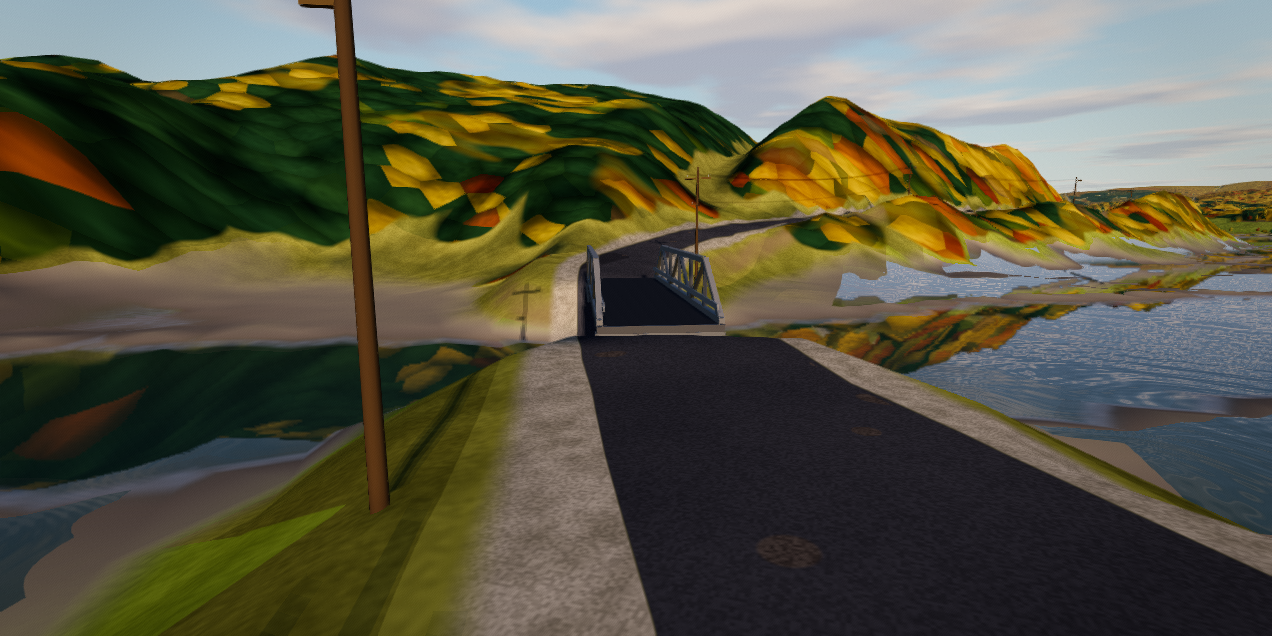
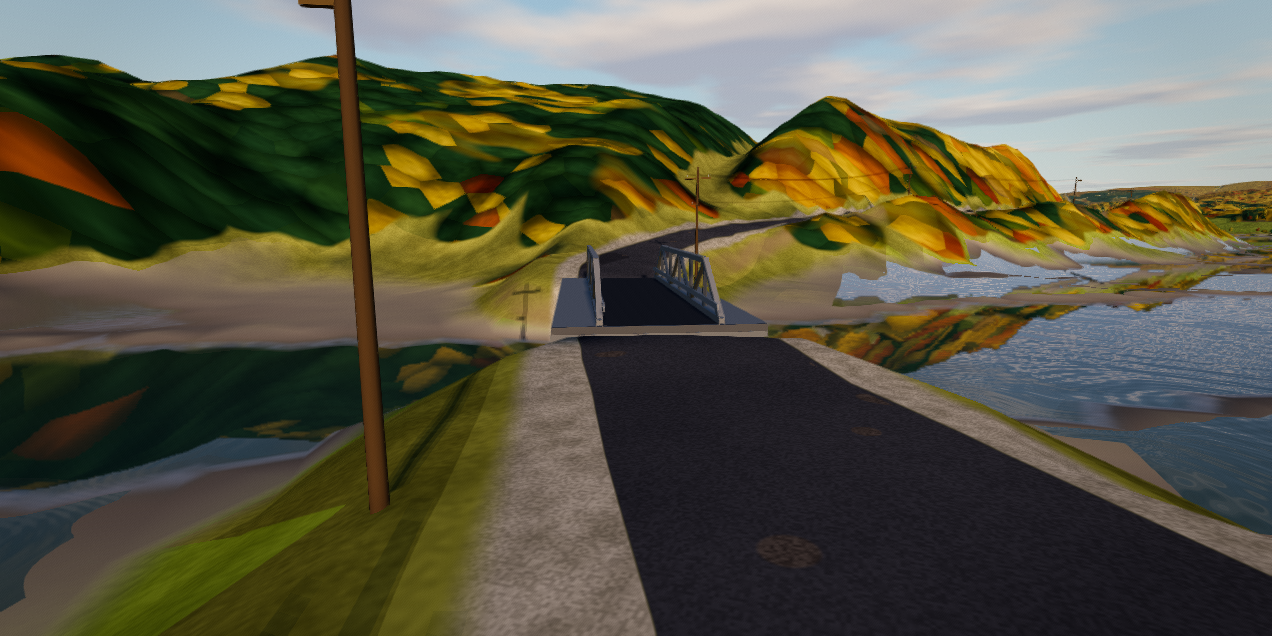
Keep deck shoulders visible and clip portal rail height along inclined ends

diff --git a/web/src/november-bridges.ts b/web/src/november-bridges.ts
@@ -35,7 +35,7 @@ export const PONY_TRUSS = {
   deckThickness: 0.26,
 } as const;
 
-/** Span geometry and side-rail colliders for one pony-truss bridge, including truss height for vertical overlap checks. */
+/** Span geometry and side-rail colliders for one pony-truss bridge, including panel/truss dimensions for vertical clipping. */
 export interface PonyTrussSpan {
   readonly roadId: number;
   readonly ax: number;
@@ -43,7 +43,9 @@ export interface PonyTrussSpan {
   readonly ux: number;
   readonly uz: number;
   readonly span: number;
+  readonly panel: number;
   readonly height: number;
+  readonly heading: number;
   readonly solids: readonly Solid[];
 }
 
@@ -87,6 +89,7 @@ export function ponyTrussSpan(road: Road): PonyTrussSpan | null {
   if (!span) return null;
   const ux = dx / span, uz = dz / span, heading = Math.atan2(dx, -dz);
   const mx = (a[0] + b[0]) / 2, mz = (a[1] + b[1]) / 2;
+  const panels = Math.max(4, Math.round(span / PONY_TRUSS.targetPanel / 2) * 2);
   const centre = (PONY_TRUSS.railInner + PONY_TRUSS.outerHalf) / 2;
   const halfWidth = (PONY_TRUSS.outerHalf - PONY_TRUSS.railInner) / 2;
   return {
@@ -96,7 +99,9 @@ export function ponyTrussSpan(road: Road): PonyTrussSpan | null {
     ux,
     uz,
     span,
+    panel: span / panels,
     height: ponyTrussHeight(span),
+    heading,
     solids: [-1, 1].map(side => ({
       x: mx - uz * side * centre,
       z: mz + ux * side * centre,
@@ -105,6 +110,74 @@ export function ponyTrussSpan(road: Road): PonyTrussSpan | null {
       heading,
     })),
   };
+}
+
+/**
+ * Compute the longitudinal steel collision interval [sLeft, sRight] for a vehicle vertical slice [carY, carY + carHeight]
+ * against the bridge's inner guard rail, inclined end posts, and horizontal top chord.
+ * Writes [sLeft, sRight, railActive ? 1 : 0] into `out` and returns true when steel overlaps vertically.
+ */
+export function ponyTrussVerticalClip(
+  b: PonyTrussSpan,
+  y0: number,
+  y1: number,
+  carY: number,
+  carHeight: number,
+  out: [number, number, number],
+): boolean {
+  const span = b.span, panel = b.panel, h = b.height;
+  const yBase = PONY_TRUSS.chordSize / 2;
+  const topPad = PONY_TRUSS.chordSize / 2;
+  const topOverhang = PONY_TRUSS.chordSize * 0.35;
+  const railTop = PONY_TRUSS.railHeight + 0.11;
+  const deckSlope = (y1 - y0) / span;
+  const carTop = carY + carHeight;
+  if (carTop < Math.min(y0, y1) - 0.15) return false;
+  if (carY > Math.max(y0, y1) + h + topPad) return false;
+
+  let sLeft = 0, sRight = span;
+  if (deckSlope > 1e-7) {
+    sRight = Math.min(sRight, (carTop - (y0 - 0.15)) / deckSlope);
+    sLeft = Math.max(sLeft, (carY - (y0 + h + topPad)) / deckSlope);
+  } else if (deckSlope < -1e-7) {
+    sLeft = Math.max(sLeft, (carTop - (y0 - 0.15)) / deckSlope);
+    sRight = Math.min(sRight, (carY - (y0 + h + topPad)) / deckSlope);
+  }
+
+  // Follow the inclined end posts when the vehicle bottom clears the inner steel guard rail.
+  if (carY > y0 + railTop) {
+    const rawAng = Math.atan2(deckSlope * panel + h - yBase, panel);
+    const endInset = (PONY_TRUSS.endPostSize / 2) * Math.abs(Math.sin(rawAng)) + 0.02;
+    const run = panel - endInset;
+    const ang = Math.atan2(deckSlope * run + h - yBase, run);
+    const endVertHalf = (PONY_TRUSS.endPostSize / 2) / Math.cos(ang);
+    const startSlope = deckSlope + (h - yBase) / run;
+    let sIncl = endInset + (carY - (y0 + deckSlope * endInset + yBase + endVertHalf)) / startSlope;
+    if (carY >= y0 + deckSlope * (panel - topOverhang) + h - topPad) sIncl = Math.min(sIncl, panel - topOverhang);
+    if (deckSlope > 1e-7) sIncl = Math.min(sIncl, (carY - (y0 + railTop)) / deckSlope);
+    sLeft = Math.max(sLeft, sIncl);
+  }
+  if (carY > y1 + railTop) {
+    const rawAng = Math.atan2(-deckSlope * panel + h - yBase, panel);
+    const endInset = (PONY_TRUSS.endPostSize / 2) * Math.abs(Math.sin(rawAng)) + 0.02;
+    const run = panel - endInset;
+    const ang = Math.atan2(-deckSlope * run + h - yBase, run);
+    const endVertHalf = (PONY_TRUSS.endPostSize / 2) / Math.cos(ang);
+    const endSlope = -deckSlope + (h - yBase) / run;
+    let uIncl = endInset + (carY - (y1 - deckSlope * endInset + yBase + endVertHalf)) / endSlope;
+    if (carY >= y1 - deckSlope * (panel - topOverhang) + h - topPad) uIncl = Math.min(uIncl, panel - topOverhang);
+    if (deckSlope < -1e-7) uIncl = Math.min(uIncl, (carY - (y1 + railTop)) / -deckSlope);
+    sRight = Math.min(sRight, span - uIncl);
+  }
+
+  sLeft = Math.max(0, Math.min(span, sLeft));
+  sRight = Math.max(0, Math.min(span, sRight));
+  if (sRight <= sLeft + 1e-4) return false;
+  const railActive = carY <= Math.max(y0 + deckSlope * sLeft, y0 + deckSlope * sRight) + railTop;
+  out[0] = sLeft;
+  out[1] = sRight;
+  out[2] = railActive ? 1 : 0;
+  return true;
 }
 
 /**
@@ -139,13 +212,14 @@ export function registerRailContacts(
 
 /**
  * Build one merged vertex-coloured geometry for a narrow one-lane grey steel pony-truss bridge along [0, span]
- * at the exact y0 -> y1 deck plane computed by Roads.deck().
+ * at the exact y0 -> y1 deck plane computed by Roads.deck(), keeping the full deck shoulders visible out to `deckHalf`.
  */
 export function buildPonyTrussBridge(
   pts: readonly [number, number][],
   y0: number,
   y1: number,
   len: number,
+  deckHalf: number = PONY_TRUSS.outerHalf,
 ): THREE.BufferGeometry {
   const m = new Mesher();
   const a = pts[0], b = pts[pts.length - 1];
@@ -160,6 +234,7 @@ export function buildPonyTrussBridge(
 
   const half = PONY_TRUSS.half;
   const chord = PONY_TRUSS.chordSize;
+  const outerHalf = Math.max(PONY_TRUSS.outerHalf, deckHalf);
   const panels = Math.max(4, Math.round(span / PONY_TRUSS.targetPanel / 2) * 2);
   const panel = span / panels;
   const h = ponyTrussHeight(span);
@@ -169,7 +244,7 @@ export function buildPonyTrussBridge(
   const deckMidY = (y0 + y1) / 2;
   const deckLen = Math.hypot(span, dy);
 
-  // Asphalt deck top and steel deck slab between the two trusses.
+  // Asphalt roadway between the trusses plus concrete cantilevered outer deck shoulders matching Roads.deck() width.
   const deckThick = PONY_TRUSS.deckThickness;
   const fasciaTop = -0.025;
   const fasciaBottom = fasciaTop - deckThick;
@@ -184,11 +259,23 @@ export function buildPonyTrussBridge(
     [deckLen / 2, 0, -clearHalf],
     [-deckLen / 2, 0, -clearHalf],
   ], DECK_ASPHALT);
-  // Deck slab sides and underside (steel deck fascia under the trusses, 2.5 cm below asphalt to avoid z-fighting).
-  m.box(0, fasciaTop - deckThick / 2, 0, fasciaLen, deckThick, half * 2 + chord, STEEL_DARK, false);
+  if (outerHalf > PONY_TRUSS.outerHalf + 1e-4) {
+    for (const side of [-1, 1]) {
+      const z0 = side > 0 ? PONY_TRUSS.outerHalf : -outerHalf;
+      const z1 = side > 0 ? outerHalf : -PONY_TRUSS.outerHalf;
+      m.quad([
+        [-deckLen / 2, 0, z1],
+        [deckLen / 2, 0, z1],
+        [deckLen / 2, 0, z0],
+        [-deckLen / 2, 0, z0],
+      ], ABUTMENT);
+    }
+  }
+  // Deck slab sides and underside (steel deck fascia across the full visible deck width, 2.5 cm below top to avoid z-fighting).
+  m.box(0, fasciaTop - deckThick / 2, 0, fasciaLen, deckThick, outerHalf * 2, STEEL_DARK, false);
 
   // Transverse floor beams beneath the fascia at every panel point (tilted with the slope and inset inside [0, span]).
-  const beamW = half * 2 + chord;
+  const beamW = outerHalf * 2;
   const beamEndInset = 0.12 + (0.28 + Math.abs(fasciaBottom)) * sinSlope;
   for (let i = 0; i <= panels; i++) {
     const s = i === 0 ? beamEndInset : i === panels ? span - beamEndInset : i * panel;

diff --git a/web/src/guardrails.ts b/web/src/guardrails.ts
@@ -8,7 +8,7 @@ import { surveyedRailDamage, damageShape, DENT } from './guardrail-damage';
 import { railAccess } from './guardrail-access';
 import { planRailSteps, railPoint, roadLength, nearCoast, railPosts, railMetres, RAIL, type RailSpan } from './guardrail-rules';
 import { LOOK, RailMesher, railMaterial } from './guardrail-look';
-import { PONY_TRUSS, ponyTrussSpan, type PonyTrussSpan } from './november-bridges';
+import { PONY_TRUSS, ponyTrussSpan, ponyTrussVerticalClip, type PonyTrussSpan } from './november-bridges';
 import { pushOut, type Pushable, type Solid } from './parked';
 
 interface Chunk { road: Road; start: number; end: number; x: number; z: number; revision: number; mesh: THREE.Mesh | null; spans: RailSpan[]; solids: Solid[]; shape?: string; low?: boolean }
@@ -26,6 +26,11 @@ export class Guardrails {
   readonly group = new THREE.Group();
   private readonly chunks: Chunk[] = [];
   private readonly bridgeSpans: PonyTrussSpan[] = [];
+  private readonly bridgeClip: [number, number, number] = [0, 0, 0];
+  private readonly trimmedBridgeSolids: [Solid, Solid] = [
+    { x: 0, z: 0, half: 0, halfWidth: 0, heading: 0 },
+    { x: 0, z: 0, half: 0, halfWidth: 0, heading: 0 },
+  ];
   private readonly cells = new Map<number, Chunk[]>();
   private readonly materials: (THREE.MeshLambertMaterial | undefined)[] = [];
   readonly audit = { planned: 0, pending: 0, samples: 0, queries: 0 };
@@ -285,7 +290,7 @@ export class Guardrails {
     }
     return pending ? 'pending' : 'clear';
   }
-  /** Check horizontal bounds and vertical overlap with the built truss before pushing against pony-truss rails. */
+  /** Check horizontal bounds and exact inclined-truss vertical overlap before pushing against pony-truss rails. */
   private pushBridge(car: Pushable, dt: number): void {
     const reach = (car.spec?.envelope.reach ?? 3.5) + (car.spec?.envelope.radius ?? 1.4);
     const carHeight = car.spec?.height ?? 1.8;
@@ -297,10 +302,28 @@ export class Guardrails {
       const across = -dx * b.uz + dz * b.ux;
       if (Math.abs(across) > PONY_TRUSS.outerHalf + reach) continue;
       if (car.y !== undefined) {
-        const t = Math.max(0, Math.min(1, along / b.span));
-        const deckY = this.roads.bridgeElevation(b.roadId, t) ?? this.roads.deckHeight(car.x, car.z);
-        if (deckY === null) continue;
-        if (car.y + carHeight < deckY - 0.15 || car.y > deckY + b.height + PONY_TRUSS.chordSize / 2) continue;
+        let y0 = this.roads.bridgeElevation(b.roadId, 0);
+        let y1 = this.roads.bridgeElevation(b.roadId, 1);
+        if (y0 === null || y1 === null) {
+          this.roads.deckHeight(b.ax + b.ux * (b.span * 0.5), b.az + b.uz * (b.span * 0.5));
+          y0 = this.roads.bridgeElevation(b.roadId, 0);
+          y1 = this.roads.bridgeElevation(b.roadId, 1);
+        }
+        if (y0 === null || y1 === null) continue;
+        if (!ponyTrussVerticalClip(b, y0, y1, car.y, carHeight, this.bridgeClip)) continue;
+        const [sLeft, sRight, railActive] = this.bridgeClip;
+        if (sLeft > 0 || sRight < b.span || !railActive) {
+          const midS = (sLeft + sRight) * 0.5, half = (sRight - sLeft) * 0.5;
+          const mx = b.ax + b.ux * midS, mz = b.az + b.uz * midS;
+          const inner = railActive ? PONY_TRUSS.railInner : PONY_TRUSS.clearHalf;
+          const centre = (inner + PONY_TRUSS.outerHalf) * 0.5;
+          const halfWidth = (PONY_TRUSS.outerHalf - inner) * 0.5;
+          const left = this.trimmedBridgeSolids[0], right = this.trimmedBridgeSolids[1];
+          left.x = mx + b.uz * centre; left.z = mz - b.ux * centre; left.half = half; left.halfWidth = halfWidth; left.heading = b.heading;
+          right.x = mx - b.uz * centre; right.z = mz + b.ux * centre; right.half = half; right.halfWidth = halfWidth; right.heading = b.heading;
+          pushOut(car, this.trimmedBridgeSolids, true, dt);
+          continue;
+        }
       }
       pushOut(car, b.solids, true, dt);
     }

diff --git a/web/src/roads.ts b/web/src/roads.ts
@@ -249,7 +249,7 @@ export class Roads {
     let mesh: THREE.Mesh;
     if (road.ponyTruss) {
       this.periodMat ??= new THREE.MeshLambertMaterial({ vertexColors: true, side: THREE.DoubleSide });
-      mesh = new THREE.Mesh(buildPonyTrussBridge(p, y0, y1, len), this.periodMat);
+      mesh = new THREE.Mesh(buildPonyTrussBridge(p, y0, y1, len, road.halfWidth + 0.9), this.periodMat);
       mesh.name = 'pony-truss-' + road.id;
       mesh.castShadow = mesh.receiveShadow = true;
     } else {
